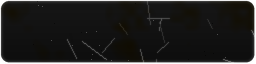
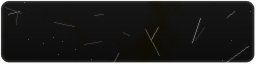
Pivot-centred square needle/lever textures (rotation no longer clipped), dark backing behind housing, exclude missiles from ammo types, usage docs
Claude-Session: https://claude.ai/code/session_011SBtSE4BZEe59rwSQzqNbf

diff --git a/tools/gen_textures.py b/tools/gen_textures.py
@@ -336,13 +336,15 @@ def gauge_arc(name="gauge_arc", vmax=30, a0=-80, a1=80, step=5):
 
 # ------------------------------------------------------------------ ibre
 def needle():
-    W, H = 64, 512
-    img = Image.new("RGBA", (W, H), (0, 0, 0, 0))
+    """Kare doku, pivot = merkez, ibre merkezden yukarı uzanır (uç üstte). Kontrol karesi merkez etrafında döndürüldüğü için
+    oyunda hiçbir açıda kırpılmaz (ince dikdörtgen dokular döndürülünce kırpılıyordu)."""
+    S = 512; c = S / 2; k = 2
+    img = Image.new("RGBA", (S * k, S * k), (0, 0, 0, 0))
     d = ImageDraw.Draw(img)
-    # konik ibre: tabanda geniş, uçta sivri; uç üstte
-    d.polygon([(W / 2 - 13, H), (W / 2 + 13, H), (W / 2 + 2, 4), (W / 2 - 2, 4)], fill=(235, 235, 235, 255))
-    d.polygon([(W / 2, H), (W / 2 + 13, H), (W / 2 + 2, 4), (W / 2, 4)], fill=(170, 170, 170, 255))
-    save(img.filter(ImageFilter.GaussianBlur(0.6)), "needle")
+    d.polygon([((c - 14) * k, c * k), ((c + 14) * k, c * k), ((c + 10) * k, (c + 44) * k), ((c - 10) * k, (c + 44) * k)], fill=(200, 200, 200, 255))   # kuyruk
+    d.polygon([((c - 12) * k, c * k), ((c + 12) * k, c * k), ((c + 3.5) * k, 6 * k), ((c - 3.5) * k, 6 * k)], fill=(240, 240, 240, 255))               # gövde
+    d.polygon([(c * k, c * k), ((c + 12) * k, c * k), ((c + 3.5) * k, 6 * k), (c * k, 6 * k)], fill=(168, 168, 168, 255))                              # gölgeli yarı
+    save(img.resize((S, S), Image.LANCZOS), "needle")
 
 
 # ------------------------------------------------------------------ lens / halka / parlama
@@ -410,21 +412,20 @@ def recess():
 
 
 def lever():
-    W, H = 48, 256
-    a = np.zeros((H, W, 4), np.float32)
-    xx = np.arange(W)[None, :].repeat(H, 0)
-    t = (xx - W / 2) / (W / 2)
-    shade = 170 + 70 * np.cos((t + 0.35) * 1.4) - 40 * np.abs(t)
+    """Kare doku, pivot = merkez; kol merkezden yukarı, ucunda topuz. 180 derece döndürülünce aşağı bakar."""
+    S = 256; c = S / 2
+    xx = np.arange(S)[None, :].repeat(S, 0).astype(np.float32)
+    t = (xx - c) / 18.0
+    shade = 170 + 70 * np.cos((t + 0.35) * 1.4) - 40 * np.minimum(1.0, np.abs(t))
+    a = np.zeros((S, S, 4), np.float32)
     a[..., :3] = shade[..., None]
-    a[..., 3] = 255
-    img = to_img(a)
-    m = Image.new("L", (W, H), 0)
+    m = Image.new("L", (S * 3, S * 3), 0)
     md = ImageDraw.Draw(m)
-    md.rounded_rectangle([W / 2 - 11, 28, W / 2 + 11, H], radius=6, fill=255)
-    md.ellipse([W / 2 - 22, 0, W / 2 + 22, 44], fill=255)         # uç topuz
-    out = np.asarray(img).copy()
-    out[..., 3] = np.asarray(m)
-    save(Image.fromarray(out, "RGBA"), "lever")
+    md.rounded_rectangle([(c - 9) * 3, 24 * 3, (c + 9) * 3, (c + 10) * 3], radius=8 * 3, fill=255)     # gövde
+    md.ellipse([(c - 20) * 3, 2 * 3, (c + 20) * 3, 42 * 3], fill=255)                                     # topuz
+    md.ellipse([(c - 13) * 3, (c - 13) * 3, (c + 13) * 3, (c + 13) * 3], fill=255)                        # pivot göbeği
+    a[..., 3] = np.asarray(m.resize((S, S), Image.LANCZOS)).astype(np.float32)
+    save(to_img(a), "lever")
 
 
 def label():

diff --git a/tools/preview.py b/tools/preview.py
@@ -51,10 +51,8 @@ class Scene:
         self.paste(DOT if name == "@dot" else (RECT if name == "@rect" else tex(name)), self.U(ox), self.V(oy), wU * u, hU * u, tint)
     def rect(self, ox, oy, wU, hU, col): self.paste(RECT, self.U(ox), self.V(oy), wU * u, hU * u, col)
     def box(self, ox, oy, wU, hU, col): self.rect(ox + wU / 2, oy + hU / 2, wU, hU, col)
-    def bar(self, bx_, by_, length, thick, ang, tint, name="needle"):   # placeRect
-        a = math.radians(ang)
-        cx = bx_ + math.sin(a) * length / 2; cy = by_ - math.cos(a) * length / 2
-        self.paste(tex(name), cx, cy, thick, length, tint, ang)
+    def bar(self, bx_, by_, length, thick, ang, tint, name="needle"):   # placeRect: pivot merkezli kare
+        self.paste(tex(name), bx_, by_, 2 * length, 2 * length, tint, ang)
     def txt(self, ox, oy, wU, hU, t, col=(0.84, 0.86, 0.8, 1), style=2, size=0.46):
         t = str(t)
         f = ImageFont.truetype(FONT, int(u * size * 1.0))

diff --git a/addons/tankui/gui/main.hpp b/addons/tankui/gui/main.hpp
@@ -17,11 +17,12 @@ class SB_TankUI_Main {
     class controlsBackground {};
 
     class controls {
-        // Doku yokken yedek gövde (doku varsa onLoad gizler)
+        // Koyu zemin: gövde dokusunun ekran deliği kenarındaki yarı şeffaf pikseller arkadaki oyun dünyasını göstermesin.
+        // Doku kapalıyken (CBA ayarı) onLoad bunu zeytin yeşili yedek gövdeye çevirir.
         class Frame: SB_RscText {
             idc = 7401;
             x = DEV_X; y = DEV_Y; w = DEV_W; h = DEV_H;
-            colorBackground[] = {0.25, 0.30, 0.20, 1};
+            colorBackground[] = {0.05, 0.06, 0.04, 1};
         };
         // Ekran (cihazın camı)
         class Screen: SB_RscText {

diff --git a/README.md b/README.md
@@ -71,3 +71,10 @@ PBO ön eki `addons/tankui/$PBOPREFIX$` dosyasından okunur (`z\tank33\addons\ta
 
 **Ön eki değiştirmek:** pboProject dosyaları P: sürücüsünde ön ekle arar, proje `P:\<ön ek>` altında durmalıdır (şu an `z\tank33\addons\tankui`). Başka bir yerde derlenecekse:
 `python3 tools/set_prefix.py "yeni\on\ek"` tüm yolları ve `$PBOPREFIX$` dosyasını birlikte günceller.
+
+## Kullanım
+**Gereksinim:** CBA_A3, ACE3, CUP Vehicles. PBO derlenirken dokular `.paa`'ya çevrilir (pboProject).
+
+**Açma/kapama:** tank içindeyken `Ctrl+T` (Esc > Configure > Controls > Configure Addons > Steel Tank UI'dan değiştirilebilir) veya ACE self-interact > "Tank sistemleri". Kapatma: aynı tuş, KAPAT düğmesi ya da Esc. Menü açıkken nişan alınamaz/ateş edilemez: ayarla, kapat, ateş et.
+
+**Ekranlar** (soldaki üç donanım düğmesi): ISTASYON (yalnızca T-72 nişancı), MUHIMMAT, DURUM. Sürücüde yalnız DURUM, komutanda MUHIMMAT + DURUM, nişancıda üçü. Koltuk değiştirirsen menü kapanır.
